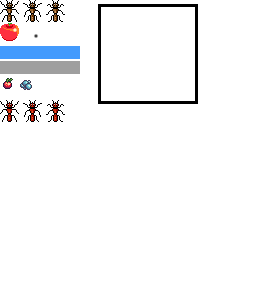
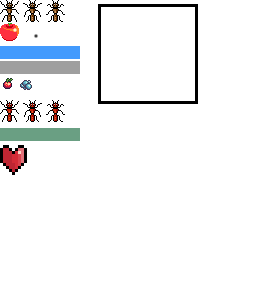
add hearts

Changed region(s): [[0.0, 0.42, 0.2941, 0.6]]

diff --git a/core/src/ru/spbau/kaysin/ants/entities/LivesMonitor.java b/core/src/ru/spbau/kaysin/ants/entities/LivesMonitor.java
@@ -1,0 +1,44 @@
+package ru.spbau.kaysin.ants.entities;
+
+import com.badlogic.gdx.Gdx;
+import com.badlogic.gdx.graphics.g2d.Batch;
+import com.badlogic.gdx.graphics.g2d.NinePatch;
+import com.badlogic.gdx.graphics.g2d.Sprite;
+import com.badlogic.gdx.graphics.g2d.TextureAtlas;
+import com.badlogic.gdx.math.MathUtils;
+import com.badlogic.gdx.scenes.scene2d.Actor;
+import com.badlogic.gdx.scenes.scene2d.utils.NinePatchDrawable;
+import com.badlogic.gdx.utils.Align;
+import ru.spbau.kaysin.ants.Ants;
+import ru.spbau.kaysin.ants.model.GameWorld;
+
+/**
+ * Created by demarkok on 26-Dec-16.
+ */
+public class LivesMonitor extends Actor {
+
+    private GameWorld world;
+    boolean friendly;
+    private Sprite texture;
+
+    public LivesMonitor(GameWorld world, boolean friendly) {
+        this.friendly = friendly;
+        this.world = world;
+
+        texture = new Sprite(Ants.getAssets().get("pack.txt", TextureAtlas.class).findRegion("heart"));
+    }
+
+
+    @Override
+    public void draw(Batch batch, float parentAlpha) {
+        int lives = friendly ? world.getLives() : world.getEnemyLives();
+
+        float posX = getParent().getWidth() / 2 - texture.getWidth() * lives / 2;
+        float posY = friendly ? 0 : getParent().getHeight() - texture.getHeight();
+
+        for (int i = 0; i < lives; ++i) {
+            batch.draw(texture, posX, posY);
+            posX += texture.getHeight();
+        }
+    }
+}

diff --git a/core/src/ru/spbau/kaysin/ants/model/GameWorld.java b/core/src/ru/spbau/kaysin/ants/model/GameWorld.java
@@ -76,8 +76,6 @@ public class GameWorld {
         addEnemyDomain();
         addEnemyCodomain();
 
-
-
         bonuses = new Group();
         bonuses.setBounds(0, 0, stage.getWidth(), stage.getHeight());
         bonuses.setTouchable(Touchable.disabled);
@@ -104,6 +102,10 @@ public class GameWorld {
         enemyEnergyBar = new EnergyBar(this, false);
         hud.addActor(enemyEnergyBar);
         enemyEnergyBar.init();
+
+
+        hud.addActor(new LivesMonitor(this, true));
+        hud.addActor(new LivesMonitor(this, false));
 
 
         // now the stage handle all the inputs
@@ -302,4 +304,11 @@ public class GameWorld {
         }
     }
 
+    public int getEnemyLives() {
+        return enemyLives;
+    }
+
+    public int getLives() {
+        return lives;
+    }
 }
